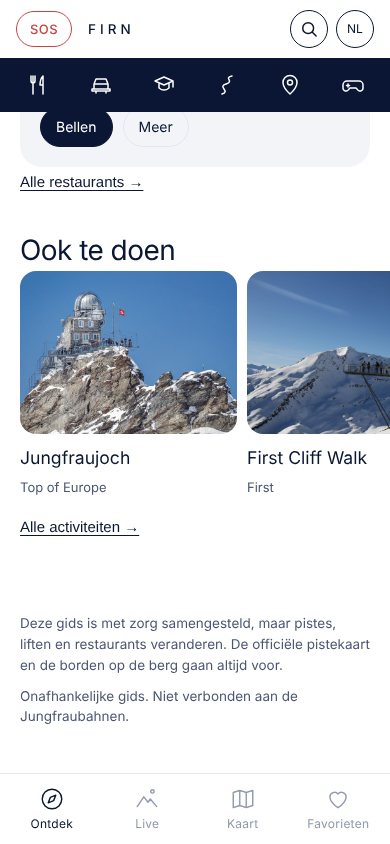
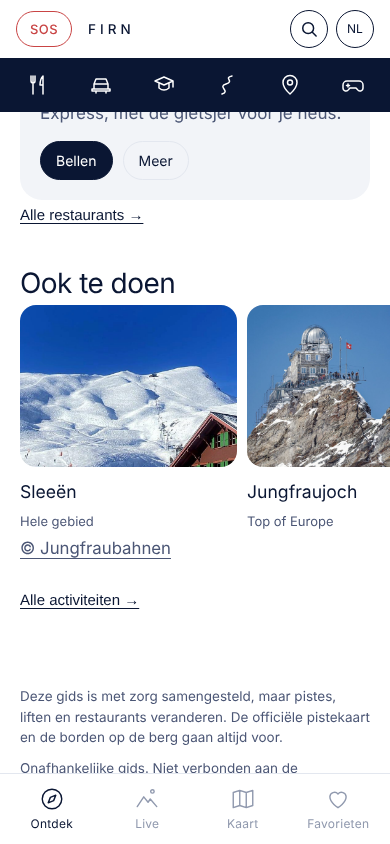
Beelden van de Jungfraubahnen bij activiteiten, startpagina en welkom (© Jungfraubahnen, CC BY-NC 4.0)
Claude-Session: https://claude.ai/code/session_01BKK4JeDJLrK7vcsz3SwdsN

diff --git a/app/index.html b/app/index.html
@@ -411,6 +411,12 @@ select,input[type=text]{background:var(--snow)}
 .shint{color:var(--muted);margin:18px 0}
 #welc{position:absolute;inset:0;z-index:30;background:var(--snow);display:none;flex-direction:column;padding:calc(env(safe-area-inset-top) + 28px) 26px calc(env(safe-area-inset-bottom) + 22px);overflow-y:auto}
 #welc.on{display:flex}
+.hhero{margin:0 0 22px;position:relative}.hhero img{display:block;width:100%;aspect-ratio:3/2;object-fit:cover;border-radius:18px}
+.hhero figcaption,.hcred{font-size:11px;color:var(--muted);margin:6px 2px 0}.hhero figcaption a,.hcred a{color:inherit}
+#welc .wimg{margin:calc(-28px - env(safe-area-inset-top)) -26px 0;position:relative}#welc .wimg img{display:block;width:100%;height:34vh;object-fit:cover}
+#welc .wimg small{position:absolute;right:8px;bottom:6px;font-size:10px;color:#fff;text-shadow:0 1px 3px rgba(0,0,0,.6)}
+#welc .wimg+.wlogo{margin-top:18px}
+
 #welc .wlogo{font:500 13px "IBM Plex Mono",monospace;letter-spacing:.5em;text-transform:uppercase;color:var(--muted)}
 #welc .wbody{flex:1;display:flex;flex-direction:column;justify-content:center;padding:24px 0}
 #welc h1{font-size:40px;line-height:1.05;margin:0 0 14px;font-weight:400;letter-spacing:-.02em}
@@ -1233,8 +1239,12 @@ function loadTrip(i,el){const x=TRIPS[i],box=el.querySelector('.trb');box.innerH
 const DO=[{id:'sled',lay:'sled',z:[46.6,7.99]},{id:'hike',lay:'hike',z:[46.6,7.99]},{id:'jfj',at:'jfj'},{id:'piz',at:'sch'},{id:'birg',at:'bir'},{id:'cliff',at:'fir'},{id:'fly',at:'fir'},{id:'velo',at:'gw'},{id:'ice',at:'wen'},{id:'park',at:'fir'}];
 function doOnMap(id){const d=DO.find(x=>x.id===id);if(!d)return;show('kaart',true);setTimeout(()=>{if(d.lay)mapMsg({k:'layer',l:d.lay,on:true});else mapMsg({k:'go',p:NLL[d.at],n:g('doen',id)[0]})},150)}
 const DOC={"jfj":{"a":"Roy Egloff","l":"CC BY-SA 4.0","u":"https://commons.wikimedia.org/wiki/File:CH.BE.Grindelwald_2021-04-20_Jungfraujoch_Sphinx-Observatory.jpg"},"piz":{"a":"Ximonic (Simo Räsänen)","l":"CC BY-SA 3.0","u":"https://commons.wikimedia.org/wiki/File:Schilthorn_with_Bernese_Alps,_2012_August.jpg"},"cliff":{"a":"Paradise Chronicle","l":"CC BY-SA 4.0","u":"https://commons.wikimedia.org/wiki/File:Cliff_walk_auf_Grindelwald_First_im_Winter.jpg"},"hike":{"a":"Jpatokal","l":"CC BY-SA 4.0","u":"https://commons.wikimedia.org/wiki/File:Mannlichn_Royal_Walk_Winter.jpg"},"birg":{"a":"Imceac","l":"CC0","u":"https://commons.wikimedia.org/wiki/File:Schilthornbahn_Funifor_Sektion_Birg_Schilthorn.jpeg"}};
+const JBP={hero:'CJiu7H6S~1772808304/Kleine-Scheidegg-Skifahrer-Eiger-Moench-Jungfrau-Key-Visual',sled:'GX5GLZ00~1771567176/Kleine-Scheidegg-Wengernalp_Fox-Run-2-Personen-am-schlitteln-von-vorne-links',hike:'Edt495rF~1772458409/Winterwandern-Kleine-Scheidegg-Maennlichen-Eiger-Moench-Jungfrau-1',park:'kgtt8eCJ~1787912853/Snowpark_Grindelwald_March_20_-_FULL-3338',jfj:'pBz9t1zE~1771246469/Jungfraubahn-Schnee-Jungfraujoch',cliff:'Mns4pKTu~1770297808/Grindelwald-First-Cliff-Walk-Eiger-Personen-Ferne',fly:'fGjHPRXP~1770358465/Grindelwald-First-Flieger-ohne-Personen-mit-Huetten-im-Schnee'};
+const JBC={a:'© Jungfraubahnen',l:'CC BY-NC 4.0',u:'https://dam.jungfrau.ch/en/terms-of-use'};
+function jbUrl(k){const x=JBP[k].split('~');return 'https://dam.media.jungfrau.ch/image/upload/s--'+x[0]+'--/c_limit,f_auto,h_800/v'+x[1]}
+function doImg(k,attr){const loc='media/'+DOP[k]+'.jpg';return JBP[k]?`<img src="${jbUrl(k)}" onerror="this.onerror=null;this.src='${loc}'" alt="" ${attr||''}>`:`<img src="${loc}" alt="" ${attr||''}>`}
 const DOP={sled:'e-lauberhorn',hike:'c-hike',jfj:'c-jfj',piz:'c-piz',birg:'c-birg',cliff:'c-cliff',fly:'e-grindelwald',velo:'e-grindelwald',ice:'e-dawn',park:'e-sessel'};
-function drawDo(){$('#doCred').innerHTML=t('phBy')+': '+Object.keys(DOC).map(k=>`${esc(g('doen',k)[0])} – <a href="${esc(DOC[k].u)}" target="_blank" rel="noopener">${esc(DOC[k].a)}</a>, ${esc(DOC[k].l)}`).join(' · ')+' (Wikimedia Commons)';$('#doList').innerHTML=DO.map(d=>{const x=g('doen',d.id);return `<button class="rcard" onclick="openPlace('d:${d.id}')"><img src="media/${DOP[d.id]}.jpg" alt="" loading="lazy"><span class="in"><span class="label">${esc(x[1])}</span><b>${esc(x[0])}</b></span></button>`}).join('')}
+function drawDo(){$('#doCred').innerHTML=t('phBy')+': '+Object.keys(DOC).filter(k=>!JBP[k]).map(k=>`${esc(g('doen',k)[0])} – <a href="${esc(DOC[k].u)}" target="_blank" rel="noopener">${esc(DOC[k].a)}</a>, ${esc(DOC[k].l)}`).join(' · ')+' (Wikimedia Commons) · '+Object.keys(JBP).filter(k=>k!=='hero').map(k=>esc(g('doen',k)[0])).join(', ')+` – <a href="${JBC.u}" target="_blank" rel="noopener">${JBC.a}</a>`;$('#doList').innerHTML=DO.map(d=>{const x=g('doen',d.id);return `<button class="rcard" onclick="openPlace('d:${d.id}')">${doImg(d.id,'loading="lazy"')}<span class="in"><span class="label">${esc(x[1])}</span><b>${esc(x[0])}</b></span></button>`}).join('')}
 const km=m=>m>=1000?(m/1000).toFixed(1).replace('.',',')+'<small> km</small>':m+'<small> m</small>';
 const dist=(a,b)=>{const x=(b[1]-a[1])*Math.cos((a[0]+b[0])/2*Math.PI/180),y=b[0]-a[0];return Math.hypot(x,y)*111195};
 function nearLift(p){let best=null;MD.lifts.forEach(l=>{if(!l.n||/carpet|rope/.test(l.t))return;[l.c[0],l.c[l.c.length-1]].forEach(q=>{const m=dist(p,q);if(!best||m<best.m)best={n:l.n,m}})});return best&&best.m<1500?best:null}
@@ -1248,7 +1258,7 @@ function drawPlace(){const key=plCur;if(!key)return;const k=key[0],id=key.slice(
     o={ttl:'qaEat',n:f.n,sub:ft[f.t]||'',p:f.p,tags:f.c?f.c.split(/[;_]/).map(x=>x.trim()).filter(Boolean):[],text:'',stats:[],web:f.w,ph:f.ph,fav:S.get('fav2',[]).includes(key),favFn:`favTog('${key.replace(/'/g,"\\'")}');drawPlace()`,map:`mapPick('food',${fi})`}}
   else if(k==='d'){const d=DO.find(x=>x.id===id);if(!d)return;const x=g('doen',id),M=window.FIRN_MAP||{};
     o={ttl:'qaDo',n:x[0],sub:x[1],p:d.at?NLL[d.at]:null,photo:DOP[id],tags:[],text:x[2],stats:d.at?[[N[d.at].h+'<small> m</small>',t('plAlt')]]:[[(d.lay==='sled'?'50':'100')+'<small> km</small>',t('plNet')]],fav:S.get('fav2',[]).includes(key),favFn:`favTog('${key}');drawPlace()`,map:`doOnMap('${id}')`,
-      lines:d.lay?(M[d.lay]||[]).map(q=>q.c):null,lc:d.lay==='hike'?'#1F8A6B':'#7A4FD0',note:t('doNote'),cr:DOC[id]}}
+      lines:d.lay?(M[d.lay]||[]).map(q=>q.c):null,lc:d.lay==='hike'?'#1F8A6B':'#7A4FD0',note:t('doNote'),cr:JBP[id]?JBC:DOC[id],jb:JBP[id]?id:null}}
   else if(k==='l'){const M=window.FIRN_MAP,segs=M.lifts.map((q,i)=>({q,i})).filter(x=>x.q.n===id);if(!segs.length)return;const LT=t('ltype'),l0=segs[0].q,
     tot=segs.reduce((a,x)=>a+x.q.m,0),hh=segs.flatMap(x=>(x.q.h||[]).slice(0,2)).filter(v=>v!=null),top=hh.length?Math.max(...hh):null,bot=hh.length?Math.min(...hh):null;
     const ends=segs.flatMap(x=>[{p:x.q.c[0],h:x.q.h?x.q.h[0]:0},{p:x.q.c[x.q.c.length-1],h:x.q.h?x.q.h[1]:0}]).sort((a,b)=>b.h-a.h),tp=ends[0].p;
@@ -1268,12 +1278,12 @@ function drawPlace(){const key=plCur;if(!key)return;const k=key[0],id=key.slice(
   if(o.sub&&k==='e')o.stats.unshift([`<span class="tx">${esc(o.sub)}</span>`,t('plWhere')]);
   const near=o.p&&MD.pistes.some(q=>q.c.some(c=>Math.abs(c[0]-o.p[0])<.012&&Math.abs(c[1]-o.p[1])<.017));
   const mm=o.lines?mmap(o.lines.flatMap(c=>[{p:c[0],n:''},{p:c[c.length-1],n:''}]),{lines:o.lines,lc:o.lc,solid:o.solid,hide:1,pad:o.solid?.006:.004}):(o.p&&near&&k!=='d')?mmap([{p:o.p,n:o.n}],{pad:.011}):'';
-  $('#plDetail').innerHTML=`<div class="rmedia ${o.photo&&mm?'':'one'}">${mm?`<button onclick="${o.map}" aria-label="${esc(t('onMap'))}">${mm}</button>`:''}${o.photo?`<div><img src="media/${o.photo}.jpg" alt=""></div>`:''}</div>
+  $('#plDetail').innerHTML=`<div class="rmedia ${o.photo&&mm?'':'one'}">${mm?`<button onclick="${o.map}" aria-label="${esc(t('onMap'))}">${mm}</button>`:''}${o.photo?`<div>${o.jb?doImg(o.jb):`<img src="media/${o.photo}.jpg" alt="">`}</div>`:''}</div>
    <div class="rhead"><h1>${esc(o.n)}</h1><button class="heart" aria-label="♥" aria-pressed="${o.fav}" onclick="${o.favFn}">${o.fav?'♥':'♡'}</button></div>
    ${k!=='e'&&o.sub?`<p class="rsub">${esc(o.sub)}</p>`:''}
    ${o.stats.length?`<div class="rstats n${Math.min(o.stats.length,4)}" style="margin-top:14px">${o.stats.slice(0,4).map(x=>`<div><b${/class="tx"/.test(x[0])?' class="tx"':''}>${x[0]}</b><span>${x[1]}</span></div>`).join('')}</div>`:''}
    ${o.tags.length?`<div class="meta" style="margin:0 0 18px">${o.tags.map(x=>`<span class="pill">${esc(x)}</span>`).join('')}</div>`:''}
-   ${o.text?`<div class="rdesc"><h3>${t('rtDesc')}</h3><p>${esc(o.text)}</p></div>`:''}${o.extra||''}${o.note?`<p class="small muted" style="margin-top:12px">${esc(o.note)}</p>`:''}${o.cr?`<p class="small muted" style="margin-top:8px">${t('phBy')}: <a href="${esc(o.cr.u)}" target="_blank" rel="noopener">${esc(o.cr.a)}</a>, ${esc(o.cr.l)}, Wikimedia Commons</p>`:''}
+   ${o.text?`<div class="rdesc"><h3>${t('rtDesc')}</h3><p>${esc(o.text)}</p></div>`:''}${o.extra||''}${o.note?`<p class="small muted" style="margin-top:12px">${esc(o.note)}</p>`:''}${o.cr?`<p class="small muted" style="margin-top:8px">${t('phBy')}: <a href="${esc(o.cr.u)}" target="_blank" rel="noopener">${esc(o.cr.a)}</a>, ${esc(o.cr.l)}${/wikimedia/.test(o.cr.u)?', Wikimedia Commons':''}</p>`:''}
    <div class="row" style="margin:20px 0 10px;gap:10px;flex-wrap:wrap">${o.ph?`<a class="btn sm alt" href="tel:${esc(o.ph.replace(/[^+\d]/g,''))}" style="text-decoration:none">${t('plCall')}</a>`:''}${/^https?:\/\//.test(o.web||'')?`<a class="btn sm ${o.ph?'ghost':'alt'}" href="${esc(o.web)}" target="_blank" rel="noopener" style="text-decoration:none">${t(k==='d'?'scSite':'plBook')} ↗</a>`:''}<button class="btn sm ghost" onclick="${o.map}">${t('onMap')}</button>${k!=='d'&&o.p?`<a class="btn sm ghost" style="text-decoration:none" target="_blank" rel="noopener" href="https://www.google.com/maps/search/?api=1&query=${encodeURIComponent(o.n+' '+o.p[0]+','+o.p[1])}">${t('plRev')} ↗</a>`:''}</div>${o.ph?`<p class="small muted">${esc(o.ph)}</p>`:''}`}
 /* ---------- zoeken en favorieten ---------- */
 const MD=window.FIRN_MAP||{food:[],lifts:[],pistes:[],places:[],peaks:[],stations:[]};
@@ -1373,14 +1383,14 @@ function routeToday(){const p=WX&&WX.pts&&WX.pts.find(x=>x.k==='ks'),ic=p&&p.d[0
 function drawHome(){const el=$('#home');if(!el)return;let rt;try{rt=routeToday();NLL;EM}catch(e){return}
   const loc=cur==='en'?'en-GB':cur,ks=WX&&WX.pts&&WX.pts.find(x=>x.k==='ks'),h0=ks&&ks.h[0],d1=ks&&ks.d[1],se=season(),r=rt.r,d=R(r.id),lv=t('lv'),e=EAT.find(x=>x.id===r.eat),ed=g('eat',e.id),f=EM[e.id]!=null?MD.food[EM[e.id]]:null;
   const today=h0?`${t('wc')[h0[5]]} ${t('hmAt')} Kleine Scheidegg, ${deg(h0[1])}.${d1?` ${t('hmTom')}: ${t('wc')[d1[5]].toLowerCase()}, ${deg(d1[1])} / ${deg(d1[2])}.`:''}`:t('wxNo');
-  el.innerHTML=`<div class="hb"><h2>${t('hmToday')}</h2><p>${today}</p><div id="nowIn"></div></div>
+  el.innerHTML=`<figure class="hhero"><img src="${jbUrl('hero')}" onerror="this.onerror=null;this.src='media/e-hero.jpg';this.nextElementSibling.hidden=true" alt=""><figcaption>Kleine Scheidegg · <a href="${JBC.u}" target="_blank" rel="noopener">${JBC.a}</a></figcaption></figure><div class="hb"><h2>${t('hmToday')}</h2><p>${today}</p><div id="nowIn"></div></div>
    ${se?`<div class="hb"><div class="hbig"><b>${se.n}</b><span>${t(se.k)}</span></div><p>Grindelwald-Wengen ${t('d1')} · Mürren-Schilthorn ${t('d2')}</p></div>`:''}
    <div class="hb"><h2>${t('hmRoute')}</h2><p>${t(rt.bad?'hmRouteBad':'hmRouteSun')}</p>
      <button class="hcard" onclick="openRoute(${r.id})"><img src="media/${TP[r.id]}.jpg" alt="" loading="lazy"><span class="in"><span><span class="bdg" style="background:${rcol(r)}">${lv[r.lv]}</span></span><b>${esc(d[0])}</b><span class="tm">${esc(d[1])} → ${esc(d[2])} · ${esc(d[4])}</span></span></button>
      <button class="hlink" onclick="show('routes',true)">${t('hmAllR')} →</button></div>
    <div class="hb"><h2>${t('hmLunch')}</h2><div class="hlunch"><span class="label">${esc(N[e.at].n)} · ${N[e.at].h} m</span><h3>${esc(e.n)}</h3><p>${esc(ed[1])}</p><div class="row">${f&&f.ph?`<a class="btn sm alt" style="text-decoration:none" href="tel:${esc(f.ph.replace(/[^+\d]/g,''))}">${t('plCall')}</a>`:''}<button class="btn sm ${f&&f.ph?'ghost':'alt'}" onclick="openPlace('e:${e.id}')">${t('more')}</button></div></div>
      <button class="hlink" onclick="show('eten',true)">${t('hmAllE')} →</button></div>
-   <div class="hb"><h2>${t('hmDo')}</h2><div class="hrow">${['jfj','cliff','piz','hike'].map(k=>{const x=g('doen',k);return `<button class="hmini" onclick="openPlace('d:${k}')"><img src="media/${DOP[k]}.jpg" alt="" loading="lazy"><b>${esc(x[0])}</b><span>${esc(x[1])}</span></button>`}).join('')}</div>
+   <div class="hb"><h2>${t('hmDo')}</h2><div class="hrow">${['sled','jfj','cliff','hike'].map(k=>{const x=g('doen',k);return `<button class="hmini" onclick="openPlace('d:${k}')">${doImg(k,'loading="lazy"')}<b>${esc(x[0])}</b><span>${esc(x[1])}</span></button>`}).join('')}</div><p class="hcred"><a href="${JBC.u}" target="_blank" rel="noopener">${JBC.a}</a></p>
      <button class="hlink" style="margin-top:8px" onclick="show('doen',true)">${t('hmAllD')} →</button></div>`;
   const nb=$('#nowCard .nowb');if(nb){$('#nowIn').appendChild(nb);const hd=nb.querySelector('.sgh');if(hd)hd.remove()}}
 function loadWx(force){if(!force&&Date.now()-wxAt<10*6e4)return;wxAt=Date.now();
@@ -1447,7 +1457,7 @@ function drawWelc(){const el=$('#welc'),n=wSteps(),k=n[wStep],ios=/iphone|ipad|i
     foot=(wLoc==='ok'||wLoc==='no'?`<button class="btn alt" onclick="welcNext()">${n.length>2?t('wNext'):t('wStart')}</button>`:`<button class="btn alt" onclick="welcLoc()">${t('wLoc')}</button><button class="wskip" onclick="welcNext()">${t('wLater')}</button>`)}
   if(k===2){body=`<h1>${t('wH3')}</h1><p>${t('wInstP')}</p><ul>${t(wInst?'wInstA':ios?'wInstI':'wInstO').map(x=>`<li>${x}</li>`).join('')}</ul>`;
     foot=(wInst?`<button class="btn alt" onclick="welcInst()">${t('wInstB')}</button><button class="wskip" onclick="welcDone()">${t('wLater')}</button>`:`<button class="btn alt" onclick="welcDone()">${t('wStart')}</button>`)}
-  el.innerHTML=`<div class="wlogo">Firn</div><div class="wbody">${body}</div><div class="wfoot">${dots}${foot}</div>`}
+  el.innerHTML=`${k===0?`<div class="wimg"><img src="${jbUrl('hero')}" onerror="this.parentNode.remove()" alt=""><small>${JBC.a}</small></div>`:''}<div class="wlogo">Firn</div><div class="wbody">${body}</div><div class="wfoot">${dots}${foot}</div>`}
 if(!S.get('seen',0)&&!/[?&]nowelcome/.test(location.search)){$('#welc').classList.add('on');drawWelc()}
 if('serviceWorker' in navigator&&location.protocol==='https:')navigator.serviceWorker.register('sw.js').catch(()=>{});
 </script>
